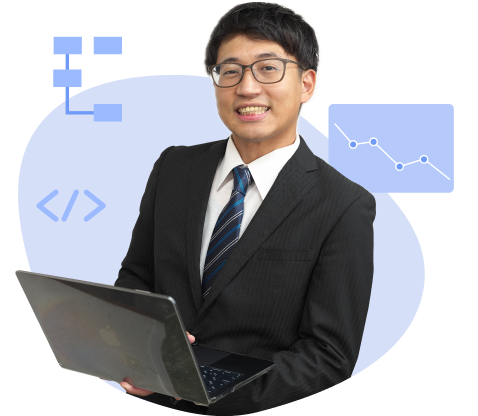
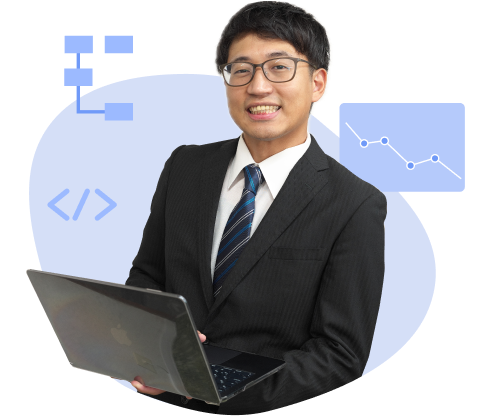
画像微調整

diff --git a/src/app/school/Teacher.tsx b/src/app/school/Teacher.tsx
@@ -5,7 +5,6 @@ import watanabe from '../../../public/image/school/icon_watanabe.png';
 import suzuki from '../../../public/image/school/icon_suzuki.png';
 import List from '@mui/material/List';
 import ListItem from '@mui/material/ListItem';
-import { gridTemplateColumns } from '@mui/system';
 
 const sxStyles = {
   list: {
@@ -44,7 +43,7 @@ const sxStyles = {
   },
   body: {
     textAlign: 'left',
-    mt:2,
+    mt: 2,
   },
   name: {
     fontWeight: 'bold',
@@ -67,18 +66,18 @@ const sxStyles = {
     fontWeight: 'bold',
     mt: 3,
     textAlign: 'left',
-  }
+  },
 };
 
 const Teacher = () => {
   return (
-    <Box pt={6} pb={10} mx={3} id="school_teacher">
+    <Box pt={9} pb={10} mx={3} id="school_teacher">
       <Typography variant="h2" sx={sxStyles.heading}>
         <img src={headingTeacherImg.src} alt="講師" width="127" height="59" />
       </Typography>
       <Box component="ul" sx={sxStyles.teacherList}>
         <Box component="li" sx={sxStyles.teacher}>
-          <img src={watanabe.src} width="654" height="568" />
+          <img src={watanabe.src} width="500" height="416" />
           <Typography variant="h3" sx={sxStyles.name}>
             渡辺 優樹
           </Typography>
@@ -88,10 +87,7 @@ const Teacher = () => {
           <Typography variant="body2" sx={sxStyles.body}>
             プログラミングを通して、次の世代に残る何かを残したいと思い起業しました！とにかくまずはプログラミングを楽しいと思ってもらえるように頑張ります！
           </Typography>
-          <Typography sx={sxStyles.subTitle}
-          >
-            経歴・資格について
-          </Typography>
+          <Typography sx={sxStyles.subTitle}>経歴・資格について</Typography>
           <List sx={sxStyles.list}>
             <ListItem>名古屋大学大学院情報学研究科 修了</ListItem>
             <ListItem>高等学校教諭一種免許状「情報」 免許保有</ListItem>
@@ -99,7 +95,7 @@ const Teacher = () => {
           </List>
         </Box>
         <Box component="li" sx={sxStyles.teacher}>
-          <img src={suzuki.src} width="654" height="568" />
+          <img src={suzuki.src} width="500" height="416" />
           <Typography variant="h3" sx={sxStyles.name}>
             鈴木 佑基
           </Typography>
@@ -109,10 +105,7 @@ const Teacher = () => {
           <Typography variant="body2" sx={sxStyles.body}>
             生徒一人ひとりのペースに合わせた丁寧な解説とコミュニケーションで、お子様の「自分で考える力」をプログラミングを通して引き出していきます！
           </Typography>
-          <Typography sx={sxStyles.subTitle}
-          >
-            経歴・資格について
-          </Typography>
+          <Typography sx={sxStyles.subTitle}>経歴・資格について</Typography>
           <List sx={sxStyles.list}>
             <ListItem>中部大学大学情報工学科卒</ListItem>
           </List>
